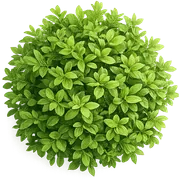
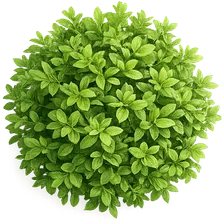
Give the hero column room and the studio the space it was sitting in (#31)
The hero is min-height:100vh with both columns vertically centred, and the
content only filled 485px of it — 317px dead above and 277px below at
1920x1080.

The studio goes 452px -> 560px, filling the column it was sitting in. Two
things follow the frame rather than stay put: the hero asset variants are
regenerated for the wider frame, and the flat-lay canvas now sizes to the
frame and DPR instead of a fixed 1000px, with the artboard scale carried
explicitly rather than assumed to be 1. On-model's canvas sizes the same
way now, capped at the photograph's own resolution.

Hero column spacing becomes vh-based between a floor and a ceiling, so it
breathes on a tall screen without overflowing a short one, and the last
row loses a trailing margin that was pushing the centred column
off-centre. Scoped to the two-column layout — below 1100px the hero is a
single column with min-height:auto, where the same clamps pushed the
studio off the bottom of a phone. Picker tiles 46px -> 54px to stay
proportionate to the larger frame.

The headline is deliberately not enlarged: past ~3.8rem "Create
Professional" stops fitting on one line and the stack orphans "Create".

Blank space 317/277 -> 266/226 at 1920x1080 and 227/187 -> 192/138 at
1440x900; the remainder is structural. All four suites pass, and there is
no horizontal overflow at 1920, 1440, 1280 or 390.

diff --git a/src/scripts/hero-studio.js b/src/scripts/hero-studio.js
@@ -17,7 +17,7 @@
 //
 // The hero also draws from its OWN copies of every asset, under /assets/hero,
 // built by scratch/build_hero_assets.cjs. The editor keeps the originals: it
-// exports at up to 2160px where this paints at 452, and sharing one set of
+// exports at up to 2160px where this paints at 560, and sharing one set of
 // files meant the homepage paid export resolution for a thumbnail. Every load
 // below falls back to the original path, so a missing variant or a browser
 // that cannot decode WebP degrades to exactly the old behaviour rather than to
@@ -47,14 +47,14 @@ const START_COLOUR = 1;
 const ORDER = ['gallery-f', 'street-m', 'miami-f', 'park-m'];
 const DESIGN_SRC = '/assets/designs/cat.png';
 
-// Four silhouettes chosen because they stay distinct at 46px — sleeve length
+// Four silhouettes chosen because they stay distinct at 54px — sleeve length
 // and neckline are the only cues that survive that size, so this is a tee, a
 // long sleeve, a hoodie and a tank rather than four tees.
 //
 // Drawn as inline SVG rather than as the garment PNGs: those are ~700KB each,
 // and four of them as thumbnails would cost more to fetch than the mode they
 // advertise. The editor's own picker sidesteps this by captioning one shared
-// shirt icon, which a 46px column has no room for.
+// shirt icon, which a 54px column has no room for.
 const GARMENTS = [
   { id: 'crewneck', label: 'Crewneck tee',
     path: 'M8.5 2 2 5.2l1.4 4.2L6 8.6V22h12V8.6l2.6.8L22 5.2 15.5 2a3.5 3.5 0 0 1-7 0z' },
@@ -264,18 +264,37 @@ async function boot(el) {
   }
 
   // Both modes render into a square, so the frame never reflows on toggle:
-  // on model to the 1:1 crop the editor's 1:1 preset uses, flat lay to the
-  // 1000-unit artboard itself, which makes artboard units and canvas pixels
-  // the same thing and keeps the pointer maths trivial.
+  // on model to the 1:1 crop the editor's 1:1 preset uses, flat lay to enough
+  // pixels to cover the frame on the current display.
+  //
+  // Flat lay used to be a flat 1000 — one canvas pixel per artboard unit, which
+  // made the pointer maths trivial. At a 452px frame that was oversampled and
+  // fine; at 560 on a retina screen the frame wants 1120 device pixels and a
+  // fixed 1000 would be upscaled, so the studio would have got bigger and
+  // softer at the same time. The scale factor is now carried explicitly by
+  // flatK() instead of being assumed to be 1.
   function sizeCanvas() {
     if (state.mode === 'flatlay') {
-      if (canvas.width !== 1000) { canvas.width = 1000; canvas.height = 1000; }
+      const css = canvas.clientWidth || 560;
+      const dpr = window.devicePixelRatio || 1;
+      // Never below the artboard (that would throw away detail the maths
+      // assumes) and never past 2000 (beyond which the per-frame composite
+      // costs more than the sharpness is worth on a hero).
+      const want = Math.max(1000, Math.min(2000, Math.round(css * dpr)));
+      if (canvas.width !== want) { canvas.width = want; canvas.height = want; }
       return;
     }
     const entry = onModelCache.get(state.id);
     if (!entry) return;
     const crop = cropRect(entry);
-    const side = Math.round(Math.min(crop.w, crop.h) * 0.75);
+    // Same reasoning as flat lay, with a hard ceiling the photograph sets:
+    // asking for more pixels than the source crop has would upscale the
+    // template rather than sharpen it. The old flat 0.75 factor was tuned for
+    // a 452px frame and left the canvas upscaled once the frame grew.
+    const css = canvas.clientWidth || 560;
+    const dpr = window.devicePixelRatio || 1;
+    const cap = Math.round(Math.min(crop.w, crop.h));
+    const side = Math.max(600, Math.min(cap, Math.round(css * dpr)));
     if (canvas.width !== side) { canvas.width = side; canvas.height = side; }
   }
 
@@ -339,10 +358,20 @@ async function boot(el) {
     drawChrome(entry);
   }
 
+  // Canvas pixels per artboard unit. 1.0 only when the canvas happens to be
+  // exactly 1000 wide; everything that speaks artboard coordinates goes
+  // through it.
+  function flatK() {
+    return canvas.width / 1000;
+  }
+
   // Artboard units per CSS pixel on screen. The shared chrome is specified in
-  // CSS pixels, so this is what converts it into the space being drawn in.
+  // CSS pixels, so this is what converts it into the space being drawn in —
+  // and since the chrome is drawn inside the flatK() transform, that scale has
+  // to be divided back out, exactly as the editor divides out its shirtZoom.
   function flatUnits() {
-    return canvas.clientWidth ? canvas.width / canvas.clientWidth : 1;
+    const perCss = canvas.clientWidth ? canvas.width / canvas.clientWidth : 1;
+    return perCss / flatK();
   }
 
   function renderFlat() {
@@ -368,14 +397,18 @@ async function boot(el) {
       shadowDepth: FLAT_SHADOW_DEPTH,
       highlightShine: FLAT_HIGHLIGHT,
     }, {
-      scale: 1,
+      scale: flatK(),
       shirtZoom: 1,
       bg: { type: 'wood-white', woodWhite: flat.wood },
       propConfigs: flat.props,
       activeProps: flat.active,
     });
 
+    // Chrome is specified in artboard coordinates, so it is drawn inside the
+    // same transform the scene was composited through.
     const u = flatUnits();
+    ctx.save();
+    ctx.scale(flatK(), flatK());
     if (state.selected === 'design') drawFlatDesignChrome(u);
     drawPropChrome(ctx, {
       propConfigs: flat.props,
@@ -385,6 +418,7 @@ async function boot(el) {
       dragged: state.drag && state.drag.prop ? state.drag.prop : null,
       units: u,
     });
+    ctx.restore();
   }
 
   function drawFlatDesignChrome(u) {
@@ -489,8 +523,8 @@ async function boot(el) {
     const cx = e.touches ? e.touches[0].clientX : e.clientX;
     const cy = e.touches ? e.touches[0].clientY : e.clientY;
     if (state.mode === 'flatlay') {
-      // Canvas pixels ARE artboard units here — sizeCanvas made them so.
-      return { x: (cx - r.left) * sx, y: (cy - r.top) * sy };
+      const k = flatK();
+      return { x: (cx - r.left) * sx / k, y: (cy - r.top) * sy / k };
     }
     return { x: ((cx - r.left) * sx - state.view.ox) / state.view.k, y: ((cy - r.top) * sy - state.view.oy) / state.view.k };
   }
@@ -734,7 +768,7 @@ async function boot(el) {
       // picker rather than four broken images.
       tilesEl.innerHTML = metas
         .map((m) => `<img src="${HERO}tiles/${m.id}.webp" alt="${m.label}" role="option"
-          aria-selected="${m.id === state.id}" data-id="${m.id}" loading="lazy" width="46" height="46"
+          aria-selected="${m.id === state.id}" data-id="${m.id}" loading="lazy" width="54" height="54"
           onerror="this.onerror=null;this.src='/assets/gallery/onmodel_${m.id}.jpg'" />`)
         .join('');
     }

diff --git a/src/styles/landing.css b/src/styles/landing.css
@@ -246,20 +246,30 @@
 }
 
 .hero-headline {
+  /* Held at 3.8rem deliberately. Growing it does fill the column, but past
+     roughly this size "Create Professional" no longer fits on one line and
+     the headline breaks to a four-line stack with "Create" orphaned. The
+     space is better spent on the gaps below than on losing that break. */
   font-size: clamp(2.4rem, 5vw, 3.8rem);
   font-weight: 800;
   line-height: 1.1;
   letter-spacing: -1.5px;
-  margin-bottom: 24px;
+  /* Every gap in the hero column is vh-based between a floor and a ceiling.
+     The row has ~590px of unused height at 1080 and ~190px at 900, so a fixed
+     value either wastes the tall screen or overflows the short one; tying it
+     to viewport height lets the column breathe exactly as far as there is
+     room, and the floors are the old fixed values so nothing ever gets
+     tighter than it is today. */
+  margin-bottom: clamp(24px, 5.2vh, 70px);
   animation: fade-slide-up 0.6s 0.1s ease-out both;
 }
 
 .hero-sub {
-  font-size: 1.1rem;
+  font-size: clamp(1.1rem, 1.02rem + 0.35vh, 1.22rem);
   color: var(--text-secondary);
-  line-height: 1.7;
+  line-height: 1.75;
   max-width: 480px;
-  margin-bottom: 36px;
+  margin-bottom: clamp(36px, 7.4vh, 100px);
   animation: fade-slide-up 0.6s 0.2s ease-out both;
 }
 
@@ -267,7 +277,7 @@
   display: flex;
   align-items: center;
   gap: 16px;
-  margin-bottom: 24px;
+  margin-bottom: clamp(24px, 4.8vh, 64px);
   flex-wrap: wrap;
   animation: fade-slide-up 0.6s 0.3s ease-out both;
 }
@@ -317,7 +327,11 @@
   display: flex;
   align-items: center;
   gap: 24px;
-  margin-bottom: 48px;
+  /* No trailing margin on the hero's last row: the column is vertically
+     centred, so a bottom margin there pushes everything visibly off-centre.
+     The .batch-checklist reuse of this class further down the page still
+     wants the spacing, so it keeps it. */
+  margin-bottom: 0;
   animation: fade-slide-up 0.6s 0.35s ease-out both;
   flex-wrap: wrap;
 }
@@ -959,6 +973,16 @@
   .hero-badge { margin: 0 auto 28px; }
   .hero-actions { justify-content: center; }
   .hero-proof { justify-content: center; }
+
+  /* The vh-based rhythm above exists to fill a fixed-height two-column row.
+     Here the hero is a single column with min-height:auto — there is no dead
+     space to absorb, and those clamps only push the studio off the bottom of
+     a phone. The trailing margin comes back too: stacked, it is what separates
+     the copy from the studio rather than pulling the column off-centre. */
+  .hero-headline { margin-bottom: 24px; }
+  .hero-sub { font-size: 1.1rem; margin-bottom: 36px; }
+  .hero-actions { margin-bottom: 24px; }
+  .hero-cta-checklist { margin-bottom: 48px; }
 
   .hero-visual {
     max-width: 600px;
